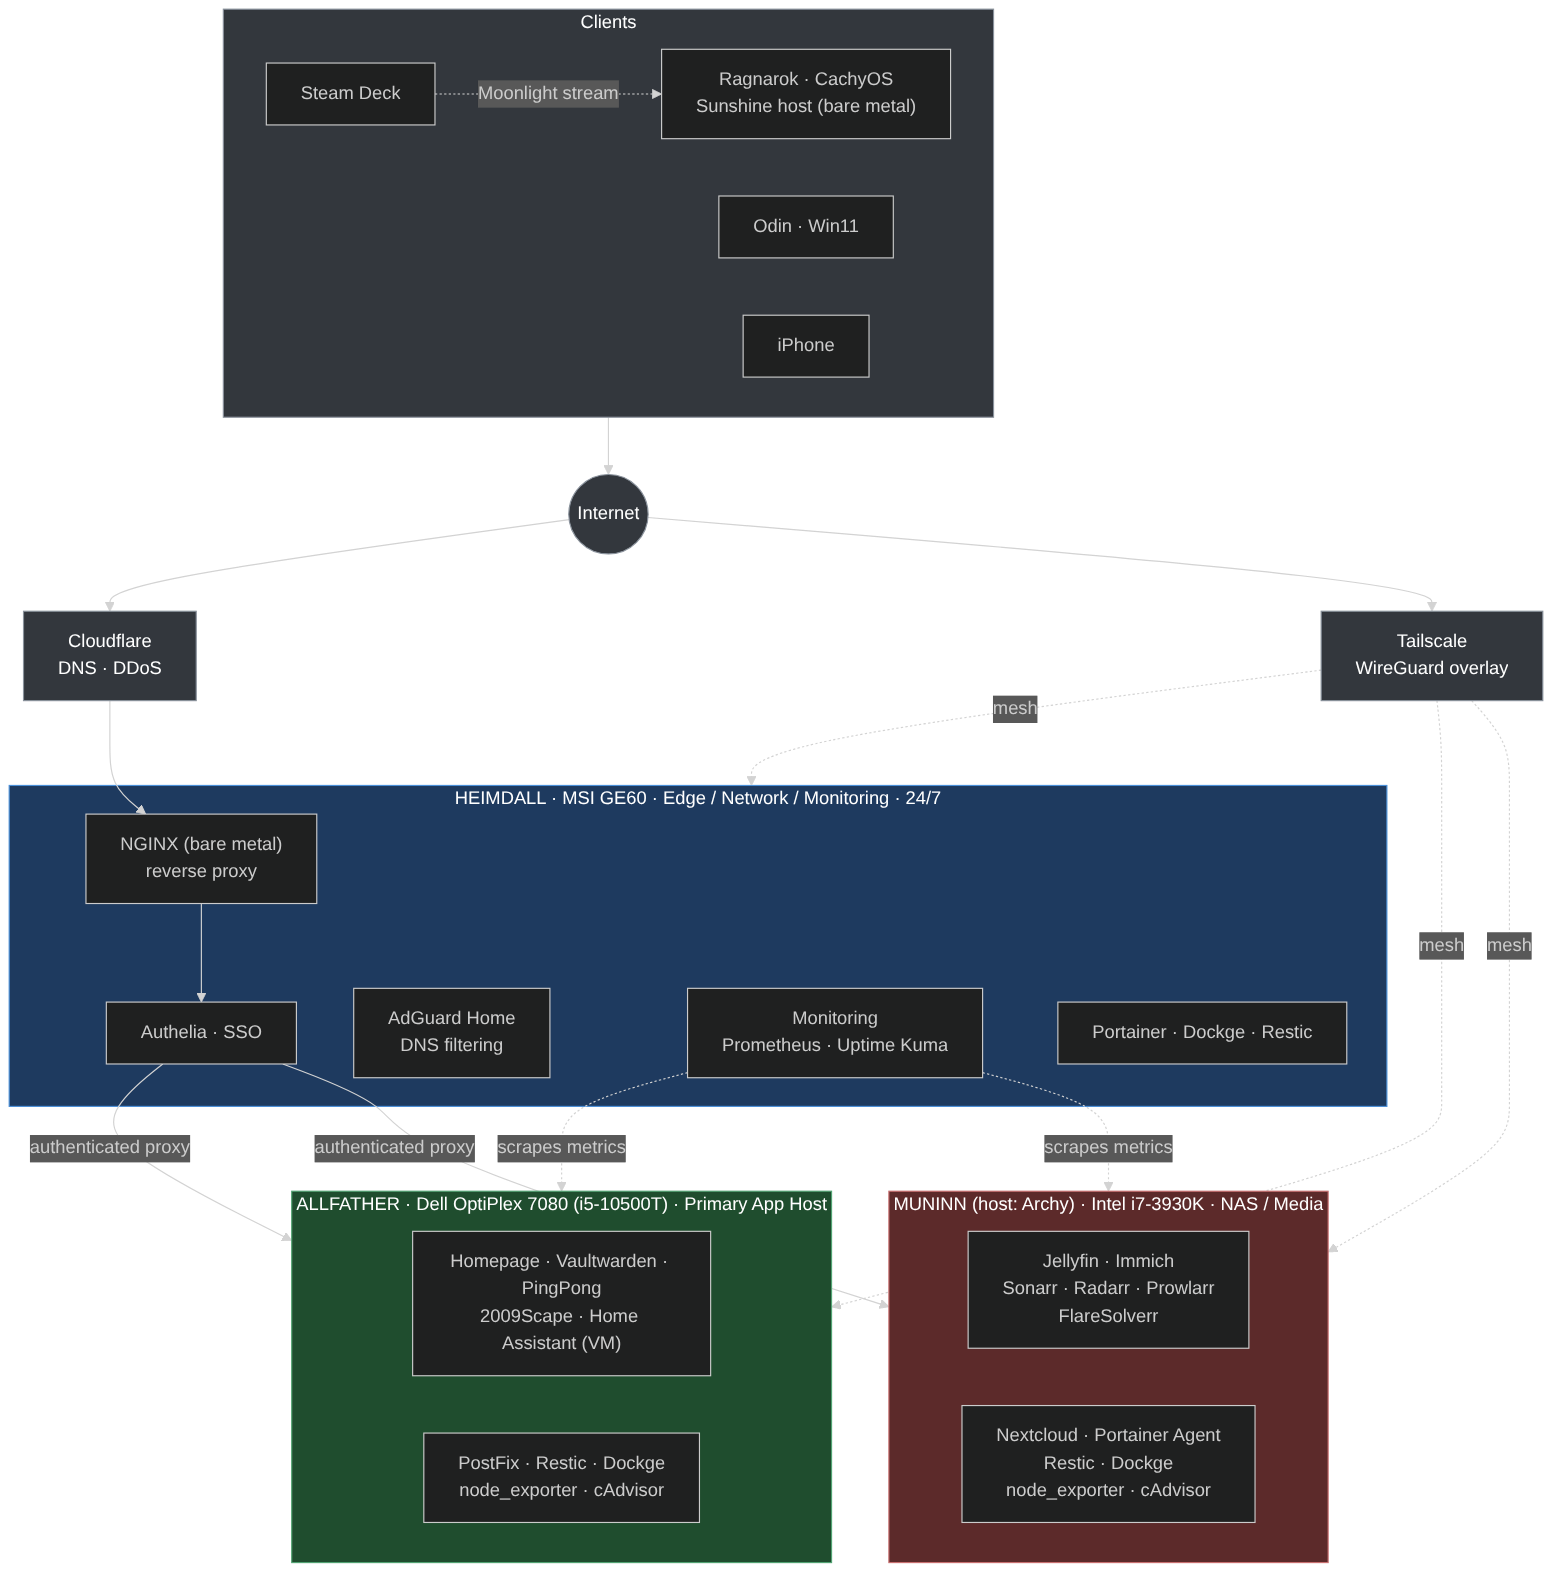
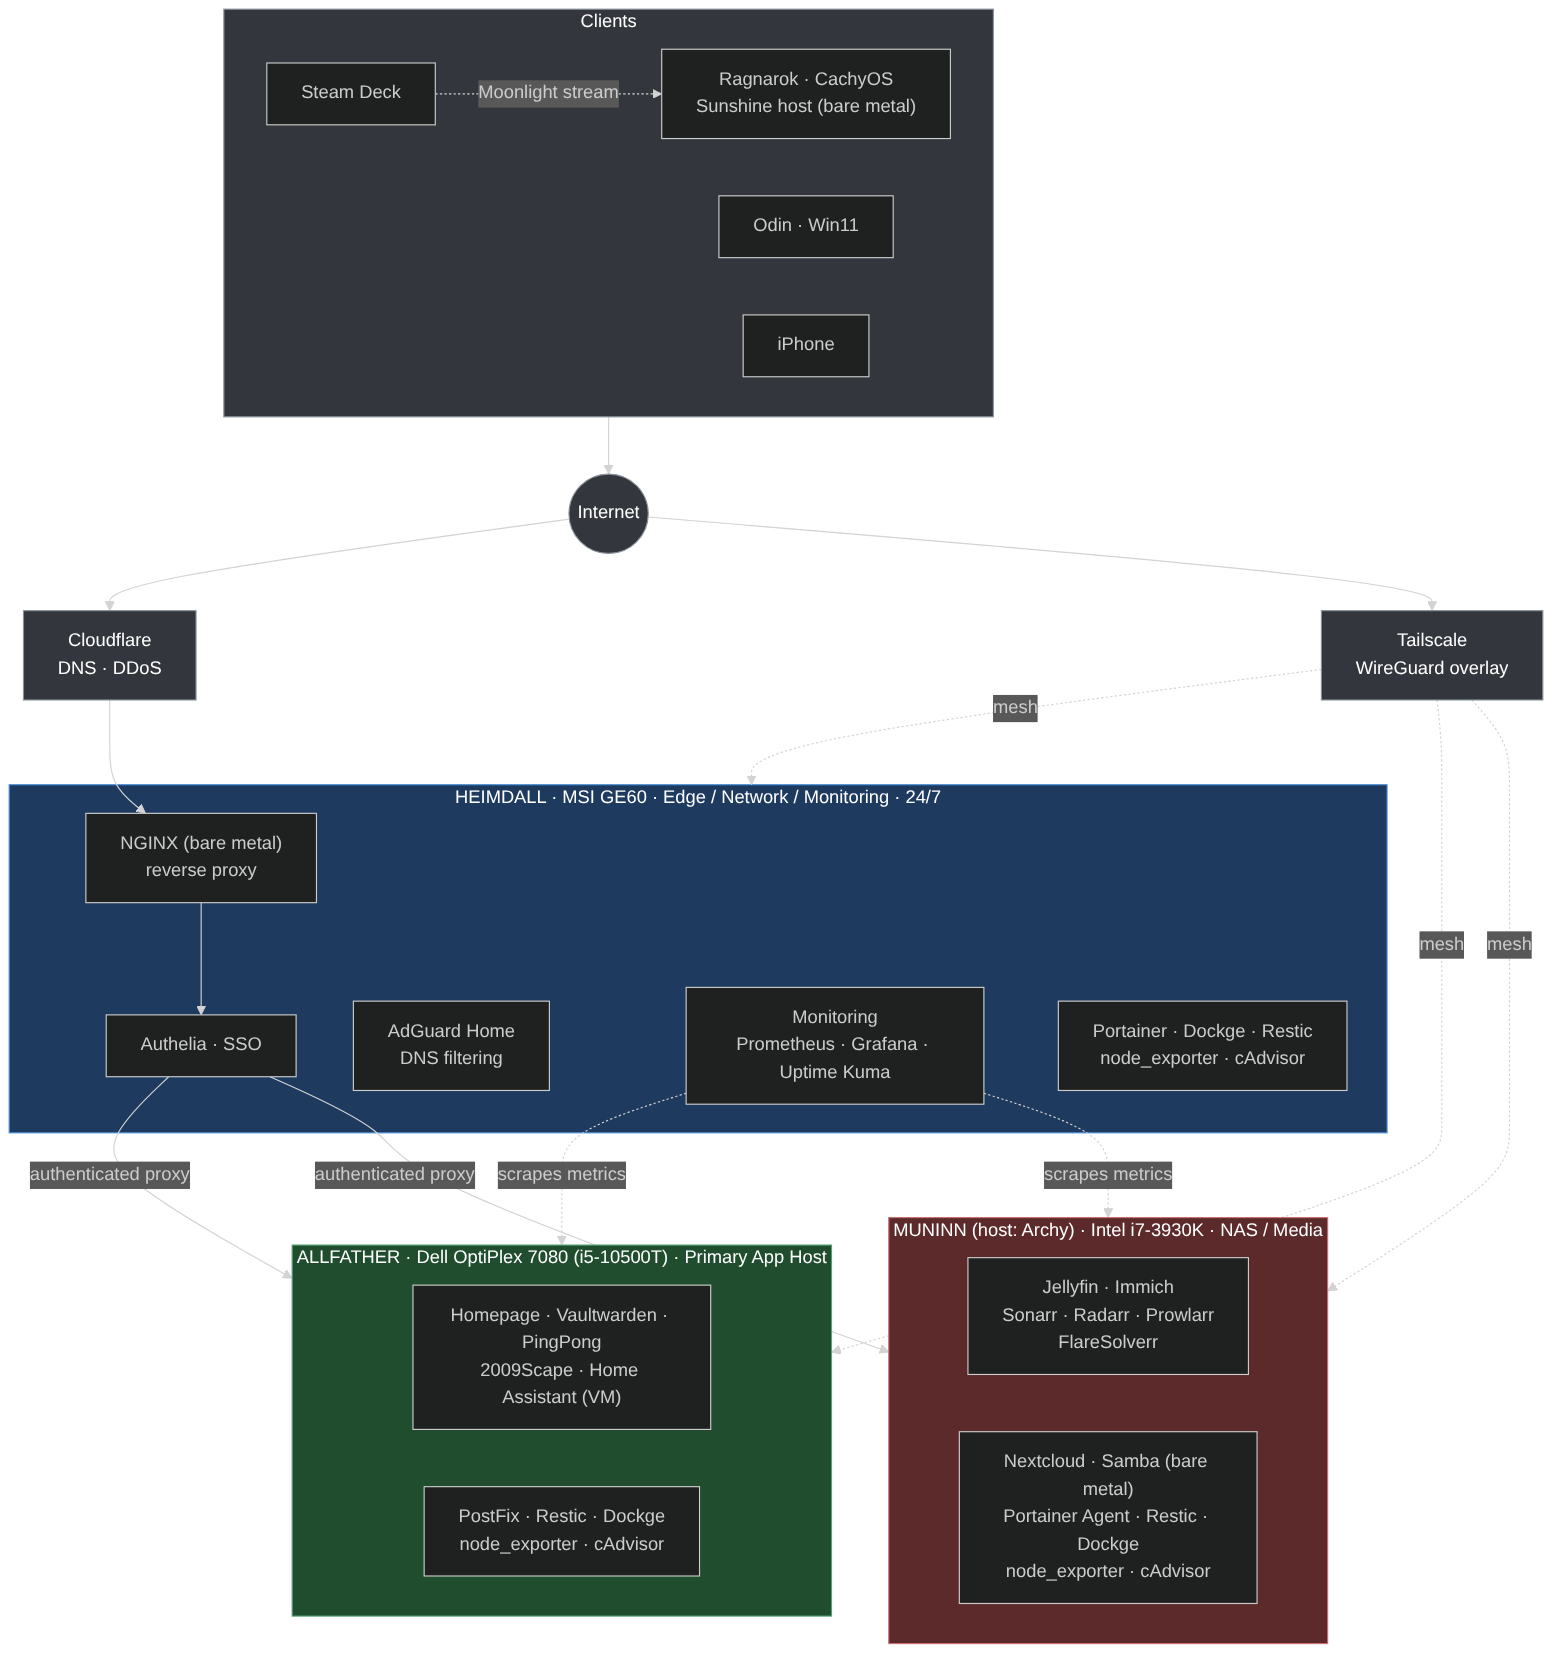
docs: merge browser edits — add Grafana, Samba, all-three-nodes exporters
Brings in updates done in Claude (browser):

- Grafana added to Heimdall (ASCII + Mermaid diagrams, service tables,
  observability paragraph, ADR 001)
- Samba (bare metal) added to Muninn (ASCII + Mermaid diagrams,
  service tables)
- node_exporter + cAdvisor now reflected on Heimdall as well as the
  other two nodes; Prometheus scope updated from "scrapes Allfather
  and Muninn" to "scrapes all three nodes"
- Refreshed architecture.png to match
- ADR 001 reasoning updated: Grafana in the monitoring stack;
  "all three nodes" run the exporters

Preserves the ADR 006 / homelab-backup / sunshine wiring from the
previous commit (the browser session was working from an older base).

diff --git a/README.md b/README.md
@@ -19,7 +19,7 @@ Internet
             │
     ┌────────────────┐
     │    HEIMDALL    │  ← Network edge. Always on. If this goes down, nothing else matters.
-    │     (GE60)     │     AdGuard · NGINX (bare metal) · Authelia · Prometheus · Uptime Kuma · Portainer
+    │     (GE60)     │     AdGuard · NGINX (bare metal) · Authelia · Prometheus · Grafana · Uptime Kuma · Portainer
     └───────┬────────┘
             │ authenticated reverse proxy
     ┌───────▼────────┐        ┌───────────────────────┐
@@ -28,9 +28,9 @@ Internet
     │                │        │                        │
     │ Home Assistant │        │ Jellyfin · Immich      │
     │ Vaultwarden    │        │ Sonarr · Radarr        │
-    │ PingPong       │        │ Prowlarr               │
-    │ 2009Scape      │        │ FlareSolverr           │
-    │ PostFix        │        │ Nextcloud              │
+    │ PingPong       │        │ Prowlarr · FlareSolverr│
+    │ 2009Scape      │        │ Nextcloud              │
+    │ PostFix        │        │ Samba (bare metal)     │
     │ Homepage       │        │ Portainer Agent        │
     └────────────────┘        └───────────────────────┘
 ```
@@ -59,8 +59,8 @@ graph TB
         direction TB
         NGINX["NGINX (bare metal)<br/>reverse proxy"] --> Authelia["Authelia · SSO"]
         AdGuard["AdGuard Home<br/>DNS filtering"]
-        Obs["Monitoring<br/>Prometheus · Uptime Kuma"]
-        Mgmt_H["Portainer · Dockge · Restic"]
+        Obs["Monitoring<br/>Prometheus · Grafana · Uptime Kuma"]
+        Mgmt_H["Portainer · Dockge · Restic<br/>node_exporter · cAdvisor"]
     end
 
     subgraph Allfather["ALLFATHER · Dell OptiPlex 7080 (i5-10500T) · Primary App Host"]
@@ -72,7 +72,7 @@ graph TB
     subgraph Muninn["MUNINN (host: Archy) · Intel i7-3930K · NAS / Media"]
         direction LR
         M_media["Jellyfin · Immich<br/>Sonarr · Radarr · Prowlarr<br/>FlareSolverr"]
-        M_store["Nextcloud · Portainer Agent<br/>Restic · Dockge<br/>node_exporter · cAdvisor"]
+        M_store["Nextcloud · Samba (bare metal)<br/>Portainer Agent · Restic · Dockge<br/>node_exporter · cAdvisor"]
     end
 
     Authelia -- authenticated proxy --> Allfather
@@ -112,11 +112,13 @@ The most critical node. Handles all DNS, routing, authentication, and observabil
 | NGINX *(bare metal)* | Reverse proxy — routes `*.portalgun.dev` subdomains |
 | Authelia | SSO authentication layer in front of NGINX |
 | Tailscale | Overlay network for secure remote access |
-| Prometheus | Metrics collection (scrapes Allfather + Muninn) |
+| Prometheus | Metrics collection (scrapes all three nodes) |
+| Grafana | Metrics dashboards |
 | Uptime Kuma | Service availability monitoring |
 | Portainer | Container management (server; agents on the other nodes) |
 | Dockge | Docker Compose management UI |
 | Restic | Automated backups |
+| node_exporter + cAdvisor | Host and container metrics |
 
 **Design decision:** Monitoring lives on the edge node intentionally. If Allfather or Muninn goes down, that's exactly when you need visibility. Monitoring on the failing node is useless. → [ADR 001](./decisions/001-monitoring-on-edge-node.md)
 
@@ -154,6 +156,7 @@ The oldest machine in the stack, repurposed as a dedicated storage and media nod
 | Prowlarr | Indexer aggregator |
 | FlareSolverr | Cloudflare bypass for indexers |
 | Nextcloud | Self-hosted file sync and cloud storage |
+| Samba *(bare metal)* | LAN file sharing (SMB) |
 | Portainer Agent | Exposes this node to Portainer on Heimdall |
 | Restic | Automated backups |
 | Dockge | Docker Compose management UI |
@@ -175,7 +178,7 @@ The oldest machine in the stack, repurposed as a dedicated storage and media nod
 
 ## Observability Stack
 
-Allfather and Muninn each run `node_exporter` (host metrics) and `cAdvisor` (container metrics). Prometheus on Heimdall scrapes both nodes centrally, and Uptime Kuma monitors availability of each service endpoint.
+All three nodes run `node_exporter` (host metrics) and `cAdvisor` (container metrics). Prometheus on Heimdall scrapes them centrally, Grafana provides dashboards, and Uptime Kuma monitors availability of each service endpoint.
 
 Running collection on the edge node means monitoring survives compute-node failures — the most useful property a monitoring stack can have.
 

diff --git a/001-monitoring-on-edge-node.md b/001-monitoring-on-edge-node.md
@@ -4,7 +4,7 @@
 
 ## Context
 
-The stack has three nodes: Heimdall (edge/network), Allfather (primary application host), and Muninn (NAS/media). The observability stack — Prometheus and Uptime Kuma, plus the `cAdvisor`/`node_exporter` agents Prometheus scrapes — has to live *somewhere*.
+The stack has three nodes: Heimdall (edge/network), Allfather (primary application host), and Muninn (NAS/media). The observability stack — Prometheus, Grafana, Uptime Kuma, plus the `cAdvisor`/`node_exporter` agents Prometheus scrapes — has to live *somewhere*.
 
 The intuitive placement is Allfather: it's the primary application host (i5-10500T, 32GB) and monitoring a time-series workload likes RAM and a stable home. The problem is what monitoring is *for*. You consult it precisely when something is wrong — and the most common "something is wrong" is a node falling over. A monitoring stack that goes down with the thing it's supposed to be watching is worthless at the exact moment you need it.
 
@@ -12,7 +12,7 @@ Heimdall is the always-on edge node. It carries the lightest, most stable worklo
 
 ## Decision
 
-Run the monitoring stack (Prometheus, Uptime Kuma, Dockge) on **Heimdall**, the edge node. Allfather and Muninn run lightweight exporters (`node_exporter`, `cAdvisor`); Prometheus on Heimdall scrapes them centrally.
+Run the monitoring stack (Prometheus, Grafana, Uptime Kuma, Dockge) on **Heimdall**, the edge node. All three nodes run lightweight exporters (`node_exporter`, `cAdvisor`); Prometheus on Heimdall scrapes them centrally.
 
 ## Alternatives considered
 
@@ -23,6 +23,6 @@ Run the monitoring stack (Prometheus, Uptime Kuma, Dockge) on **Heimdall**, the 
 ## Consequences
 
 - **Positive:** Visibility survives failure of either compute node — the single most useful property a monitoring stack can have. The edge node's stability profile matches monitoring's "must stay up" requirement.
-- **Positive:** Centralized Prometheus gives one place to query cross-node metrics, and Uptime Kuma gives one availability view.
+- **Positive:** Centralized Prometheus gives cross-node dashboards in one Grafana, and Uptime Kuma gives one availability view.
 - **Negative:** Heimdall (a 4th-gen laptop with 8GB RAM) is the weakest machine carrying the time-series workload. Retention windows and scrape cardinality have to stay modest. This is an accepted constraint, not a problem — homelab metrics volume is small.
 - **Negative:** A total Heimdall failure still takes monitoring down with it. Mitigated by Heimdall being the lowest-change, highest-stability node; not fully solved without the external-monitoring option above. Revisit if Heimdall's reliability ever proves to be the weak link.

diff --git a/SERVICES.md b/SERVICES.md
@@ -16,11 +16,14 @@ A flat reference of every service in the homelab: what it does, which node it ru
 | NGINX *(bare metal)* | 80, 443 | Reverse proxy — terminates external traffic, routes `*.portalgun.dev` |
 | Authelia | 9091 | SSO / forward-auth layer in front of NGINX |
 | Tailscale | — | WireGuard overlay daemon (uses UDP 41641 for direct connections) |
-| Prometheus | 9090 | Metrics collection — scrapes Allfather and Muninn |
+| Prometheus | 9090 | Metrics collection — scrapes all three nodes |
+| Grafana | 3000 | Metrics dashboards |
 | Uptime Kuma | 3001 | Service availability / uptime monitoring |
 | Portainer | 9000, 9443 | Container management (server; agents run on the other nodes) |
 | Dockge | 5001 | Docker Compose stack management UI |
 | Restic | — | Automated backups (CLI, scheduled) → [ADR 006](./decisions/006-distributed-restic-append-only.md) · [`homelab-backup/`](./homelab-backup/) |
+| node_exporter | 9100 | Host-level metrics |
+| cAdvisor | 8080 | Per-container resource metrics |
 
 ## Allfather — Primary Application Host (Dell OptiPlex 7080, i5-10500T)
 
@@ -48,6 +51,7 @@ A flat reference of every service in the homelab: what it does, which node it ru
 | Prowlarr | 9696 | Indexer aggregator for Sonarr/Radarr |
 | FlareSolverr | 8191 | Cloudflare challenge solver for indexers |
 | Nextcloud | 80, 443 | File sync and cloud storage |
+| Samba *(bare metal)* | 139, 445 | LAN file sharing (SMB) |
 | Portainer Agent | 9001 | Exposes this node to the Portainer server on Heimdall |
 | Restic | — | Backup target (primary, append-only via rest-server) → [ADR 006](./decisions/006-distributed-restic-append-only.md) · [`homelab-backup/`](./homelab-backup/) |
 | Dockge | 5001 | Docker Compose stack management UI |